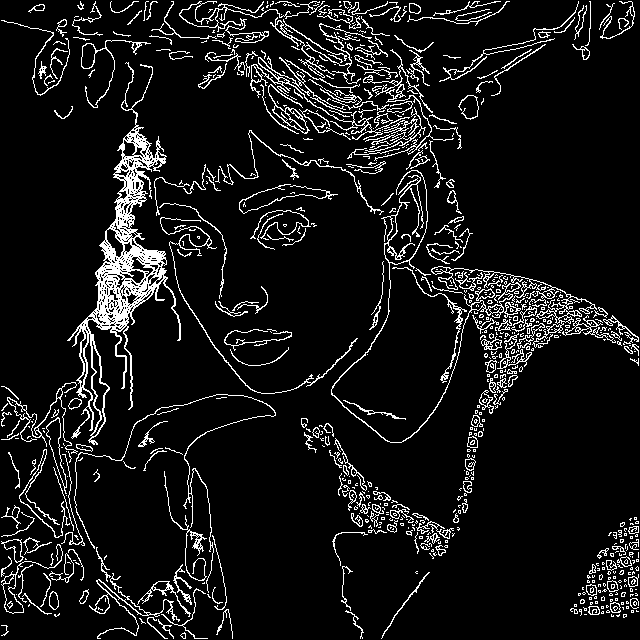
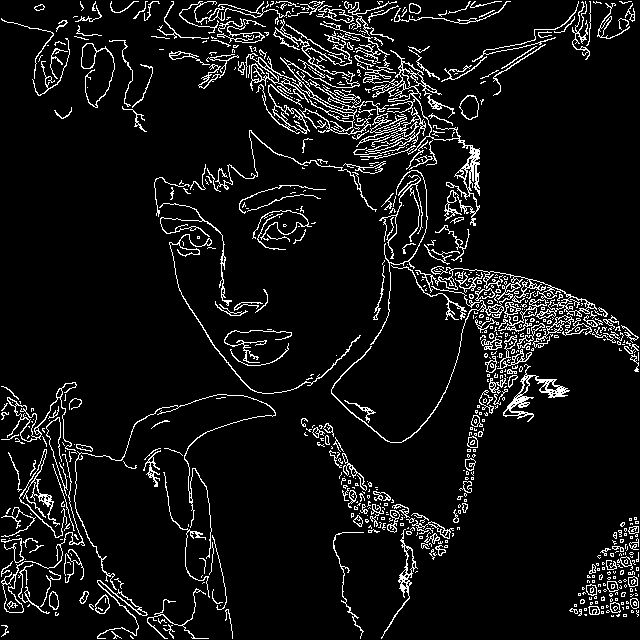
add two pass and change blur diameter

diff --git a/main.cpp b/main.cpp
@@ -40,6 +40,7 @@ float *OUTPUT_BUFFER_FLOAT = NULL;
 float *INPUT_BUFFER_FLOAT = NULL;
 FREE_IMAGE_FORMAT IMAGE_FORMAT = FIF_UNKNOWN;
 
+int TAG_OUTPUT_STEP0 = 1000;
 int TAG_OUTPUT_STEP1 = 1001;
 int TAG_OUTPUT_STEP2 = 1002;
 int TAG_OUTPUT_STEP2_DIRECTION = 2002;
@@ -52,6 +53,7 @@ double endTime;
 const char* filepath = "";
 int stage = 0;
 bool useGaussian = false;
+bool useGaussianTwoPass = false;
 bool isOptimized = false;
 
 PartitionInfo PARTITION;
@@ -299,6 +301,23 @@ float* getGaussianFilterKernel(int diameter, float sigma) {
     }
     return filter;
 }
+float* getGaussianFilterKernel1D(int diameter, float sigma) {
+    float *filter = new float[diameter];
+    int half = diameter / 2;
+    float filterSum = 0.f; //for normalization
+    for (int r = -half; r <= half; ++r) {
+        int c = -half;
+        float filterValue = expf( -(float)(c * c + r * r) / (2.f * sigma * sigma));
+        filter[r + half] = filterValue;
+        filterSum += filterValue;
+    }
+
+    float normalizationFactor = 1.f / filterSum;
+    for (int r = -half; r <= half; ++r) {
+        filter[r + half] *= normalizationFactor;
+    }
+    return filter;
+}
 
 void applyGaussianFilter(BYTE *src, BYTE *dst, int diameter, float *filter) {
     int half = diameter / 2;
@@ -327,6 +346,82 @@ void applyGaussianFilter(BYTE *src, BYTE *dst, int diameter, float *filter) {
 
                 iFiltered += src[neighbor_i * PITCH + neighbor_j] * filter[ii * diameter + jj];
             }
+        }
+        dst[i * PITCH + j] = iFiltered;
+    }
+}
+void applyGaussianFilterTwoPass(BYTE *src, BYTE *dst, BYTE *temp, int diameter, float *filter) {
+    int half = diameter / 2;
+    GridIterator iter(PARTITION, 0, PROCID);
+    for (std::pair<int,int> ij = iter.next(); ij.first != -1; ij = iter.next()) {
+        int i = ij.first;
+        int j = ij.second;
+        float iFiltered = 0;
+        int neighbor_i = 0;
+        int neighbor_j = 0;
+
+        for (int ii = 0; ii < diameter; ii++) {
+            int jj = half;
+            neighbor_i = i - (half - ii);
+            neighbor_j = j - (half - jj);
+            if (neighbor_i < 0) {
+                neighbor_i += diameter + 1;
+            } else if (neighbor_i >= HEIGHT) {
+                neighbor_i -= diameter + 1;
+            }
+            if (neighbor_j < 0) {
+                neighbor_j += diameter + 1;
+            } else if (neighbor_j >= WIDTH) {
+                neighbor_j -= diameter + 1;
+            }
+
+            iFiltered += src[neighbor_i * PITCH + neighbor_j] * filter[ii];
+        }
+        temp[i * PITCH + j] = iFiltered;
+    }
+    copyBlockToBufferByte(temp);
+    for (int i = 0; i < 9; i++) {
+        if (PARTITION.neigbhors[i] == -1) {
+            continue;
+        }
+        if (isOptimized) {
+            sendBlockByte(PARTITION.neigbhors[i], TAG_OUTPUT_STEP0, diameter, i);
+        } else {
+            sendBlockByte(PARTITION.neigbhors[i], TAG_OUTPUT_STEP0);
+        }
+    }
+    if (!isOptimized) {
+        recvBlocksByte(temp, PARTITION.neighborCount, TAG_OUTPUT_STEP0);
+    }
+    
+
+    iter = GridIterator(PARTITION, half, PROCID);
+    for (std::pair<int,int> ij = iter.next(); ij.first != -1; ij = iter.next()) {
+        if (isOptimized && iter.shouldCommunicate()) {
+            recvBlocksByte(temp, PARTITION.neighborCount, TAG_OUTPUT_STEP0, diameter);
+        }
+        int i = ij.first;
+        int j = ij.second;
+        float iFiltered = 0;
+        int neighbor_i = 0;
+        int neighbor_j = 0;
+
+        for (int jj = 0; jj < diameter; jj++) {
+            int ii = half;
+            neighbor_i = i - (half - ii);
+            neighbor_j = j - (half - jj);
+            if (neighbor_i < 0) {
+                neighbor_i += diameter + 1;
+            } else if (neighbor_i >= HEIGHT) {
+                neighbor_i -= diameter + 1;
+            }
+            if (neighbor_j < 0) {
+                neighbor_j += diameter + 1;
+            } else if (neighbor_j >= WIDTH) {
+                neighbor_j -= diameter + 1;
+            }
+
+            iFiltered += temp[neighbor_i * PITCH + neighbor_j] * filter[jj];
         }
         dst[i * PITCH + j] = iFiltered;
     }
@@ -628,18 +723,25 @@ void start(){
     if (PROCID == 0) {
         FreeImage_ConvertToRawBits(src, image, PITCH, BPP, 0, 0, 0, true);
     }
+
+    int blurDiameter = 15;
+    
     startTime = MPI_Wtime();
     
     MPI_Bcast(src, PITCH * HEIGHT, MPI_BYTE, 0, MPI_COMM_WORLD);
-    
-    int blurDiameter;
     if(useGaussian){
-        blurDiameter = 15;
-        float *gaussianFilter = getGaussianFilterKernel(blurDiameter, 2.f);
-        applyGaussianFilter(src, dst, blurDiameter, gaussianFilter);
+        if (useGaussianTwoPass) {
+            BYTE *temp = new BYTE[PITCH * HEIGHT];
+            float *gaussianFilter1D = getGaussianFilterKernel1D(blurDiameter, 2.f);
+            applyGaussianFilterTwoPass(src, dst, temp, blurDiameter, gaussianFilter1D);
+        } else {
+            float *gaussianFilter = getGaussianFilterKernel(blurDiameter, 2.f);
+            applyGaussianFilter(src, dst, blurDiameter, gaussianFilter);
+        }
+        
+        
     } else {
-        blurDiameter = 9;
-        applyBilateralFilter(src, dst, 9, 30.f, 20.f);
+        applyBilateralFilter(src, dst, blurDiameter, 30.f, 20.f);
     }
     copyBlockToBufferByte(dst);
     for (int i = 0; i < 9; i++) {
@@ -751,7 +853,7 @@ int main(int argc, char* argv[]) {
         exit(-1);
     }
     int ch = 0;
-    while ((ch = getopt(argc, argv, "f:s:go")) != -1)
+    while ((ch = getopt(argc, argv, "f:s:got")) != -1)
     {
         switch (ch)
         {
@@ -767,6 +869,8 @@ int main(int argc, char* argv[]) {
             case 'o':
                 isOptimized = true;
                 break;
+            case 't':
+                useGaussianTwoPass = true;
         }
     }
     start();
